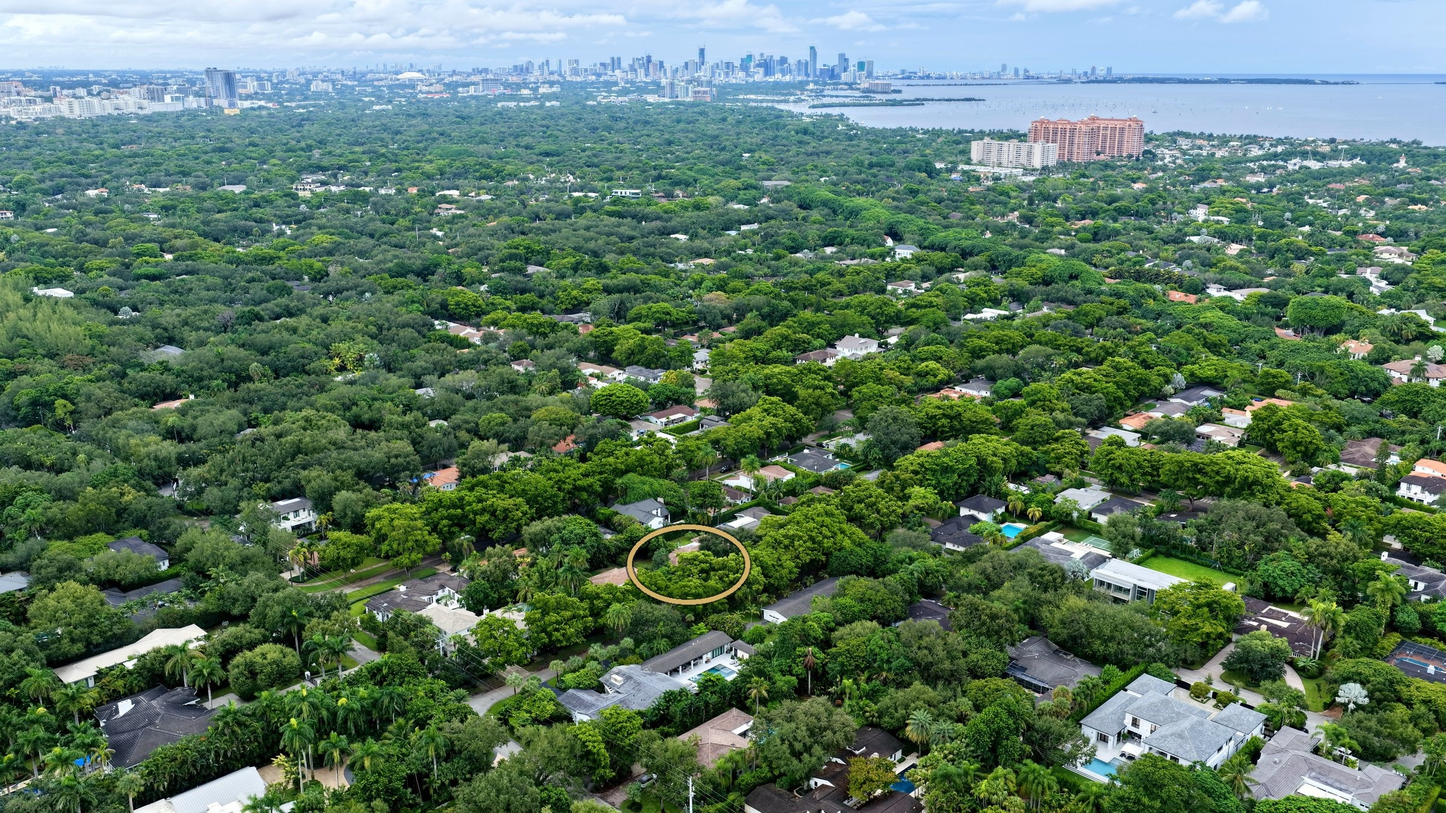
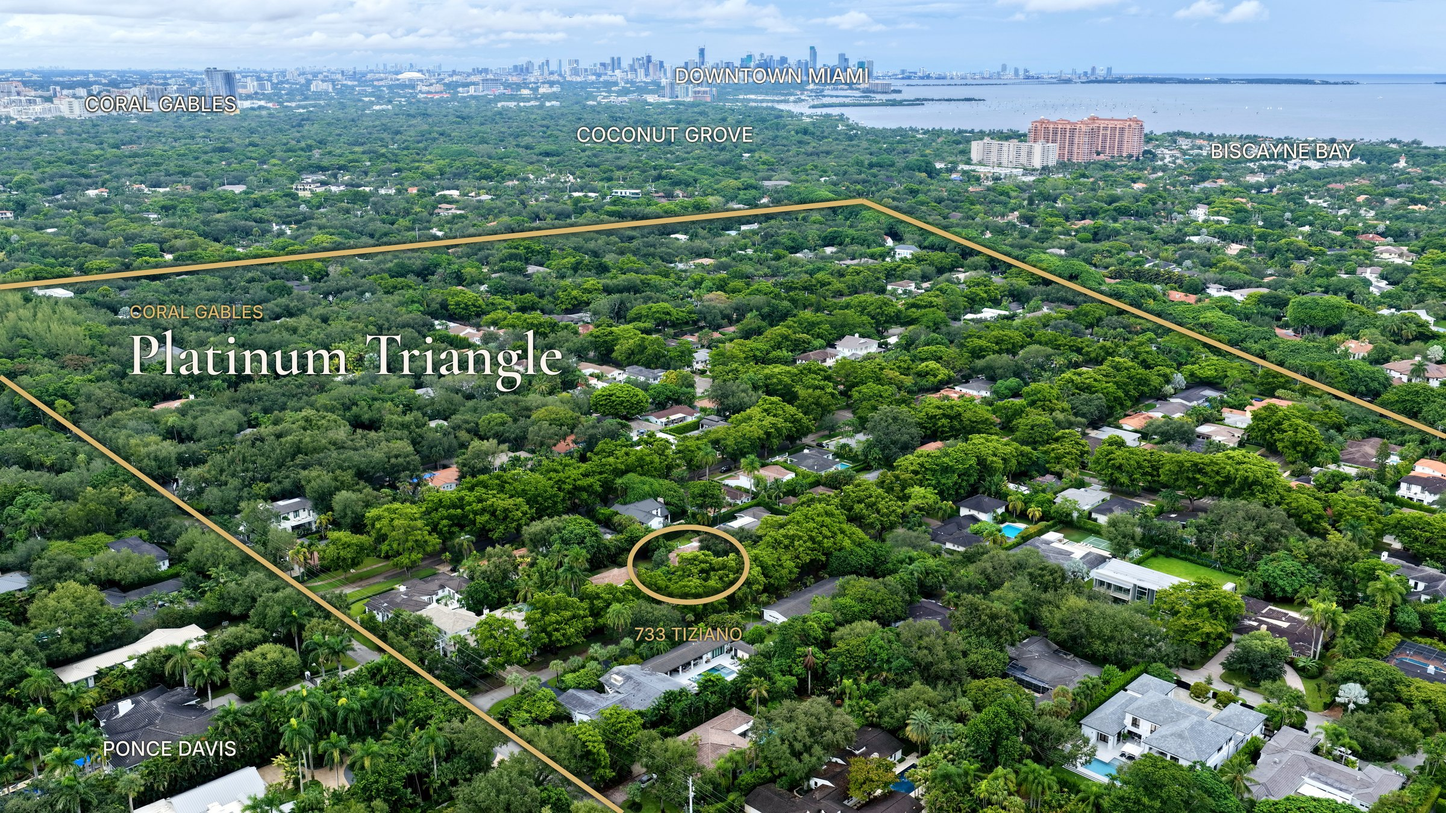
Labeled Platinum Triangle aerial

diff --git a/index.html b/index.html
@@ -219,7 +219,7 @@
     <div class="prose reveal" style="margin-top:26px">
       <p>Tucked between Sunset Drive and the Ponce-Davis estates, the Platinum Triangle is a small grid of tree-lined streets where original mid-century homes are steadily giving way to custom estates. It is minutes from the Shops at Merrick Park, downtown Coral Gables, the University of Miami, and the Sunset Drive corridor, yet feels entirely residential.</p>
     </div>
-    <div class="wide reveal"><img src="images/aerial-skyline.jpg" alt="Aerial view over the Platinum Triangle toward downtown Miami and Biscayne Bay, 733 Tiziano outlined" loading="lazy"><div class="cap">Looking northeast over the Triangle to downtown and the bay · 733 Tiziano outlined</div></div>
+    <div class="wide reveal"><img src="images/aerial-skyline.jpg" alt="Labeled aerial: the Platinum Triangle outlined, with Ponce Davis, Coconut Grove, downtown Miami and Biscayne Bay marked; 733 Tiziano circled" loading="lazy"><div class="cap">The Platinum Triangle, looking northeast to Coconut Grove, downtown and the bay · 733 Tiziano circled</div></div>
     <div class="pills reveal">
       <span class="pill">Merrick Park</span><span class="pill">Downtown Coral Gables</span><span class="pill">University of Miami</span><span class="pill">Sunset Drive</span><span class="pill">Ponce-Davis</span><span class="pill">Old Cutler Road</span>
     </div>
